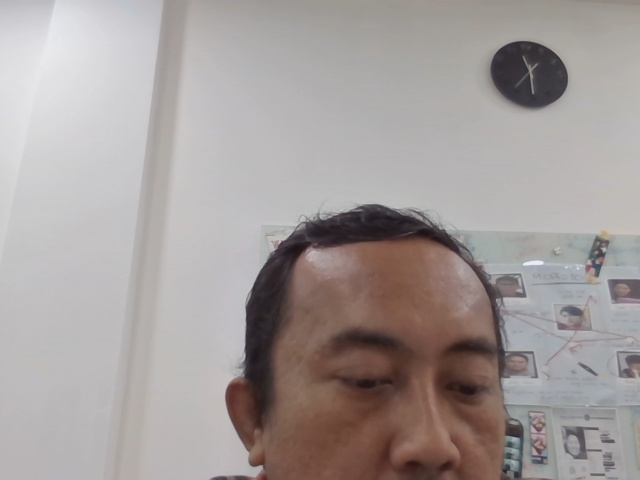
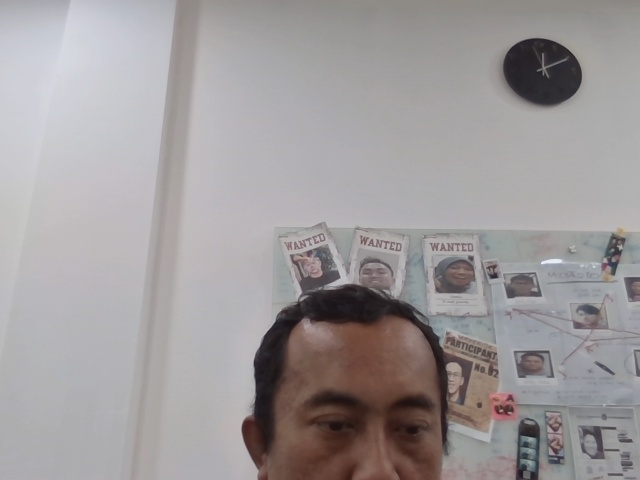
add map

diff --git a/src/pages/index.tsx b/src/pages/index.tsx
@@ -9,6 +9,7 @@ import {
 export default function Home() {
   const [result, setResult] = useState<string>("");
   const [history, setHistory] = useState<any[]>([]);
+  const [activeTab, setActiveTab] = useState<{ [key: number]: string }>({});
   const videoRef = useRef<HTMLVideoElement | null>(null);
   const canvasRef = useRef<HTMLCanvasElement | null>(null);
   const [streaming, setStreaming] = useState<boolean>(false);
@@ -33,8 +34,15 @@ export default function Home() {
               new Date(b.timestamp).getTime() - new Date(a.timestamp).getTime()
           );
           setHistory(parsed);
+          // Initialize active tab state for each history item
+          const initialActiveTab: { [key: number]: string } = {};
+          parsed.forEach((_: any, index: number) => {
+            initialActiveTab[index] = "Data"; // Default to 'Data' tab
+          });
+          setActiveTab(initialActiveTab);
         } catch {
           setHistory([]);
+          setActiveTab({});
         }
       }
     }
@@ -47,6 +55,13 @@ export default function Home() {
     );
     setHistory(sorted);
     localStorage.setItem("scanHistory", JSON.stringify(sorted));
+
+    // Update active tab state when history changes
+    const initialActiveTab: { [key: number]: string } = {};
+    sorted.forEach((_: any, index: number) => {
+      initialActiveTab[index] = activeTab[index] || "Data"; // Retain previous tab or default to 'Data'
+    });
+    setActiveTab(initialActiveTab);
   };
 
   useEffect(() => {
@@ -127,11 +142,14 @@ export default function Home() {
             const inferenceResult = response.data.result;
             setResult(JSON.stringify(inferenceResult, null, 2));
 
+            const imageUrl = canvas.toDataURL("image/jpeg"); // Get image data URL
+
             const newEntry = {
               result: inferenceResult,
               latitude: null,
               longitude: null,
               timestamp: new Date().toISOString(),
+              image: imageUrl, // Store image data URL
             };
 
             const newHistory = [newEntry, ...history]; // Add new entry to the beginning
@@ -167,11 +185,14 @@ export default function Home() {
                 const inferenceResult = response.data.result;
                 setResult(JSON.stringify(inferenceResult, null, 2));
 
+                const imageUrl = canvas.toDataURL("image/jpeg"); // Get image data URL
+
                 const newEntry = {
                   result: inferenceResult,
                   latitude,
                   longitude,
                   timestamp: new Date().toISOString(),
+                  image: imageUrl, // Store image data URL
                 };
 
                 const newHistory = [newEntry, ...history]; // Add new entry to the beginning
@@ -206,6 +227,7 @@ export default function Home() {
   const clearHistory = () => {
     setHistory([]);
     localStorage.removeItem("scanHistory");
+    setActiveTab({}); // Clear active tab state
   };
 
   const increaseZoom = () => {
@@ -214,6 +236,10 @@ export default function Home() {
 
   const decreaseZoom = () => {
     setZoomLevel((prev) => Math.max(prev - 0.1, 1));
+  };
+
+  const handleTabChange = (index: number, tabName: string) => {
+    setActiveTab((prev) => ({ ...prev, [index]: tabName }));
   };
 
   return (
@@ -414,6 +440,32 @@ export default function Home() {
           user-select: none;
           z-index: 20;
         }
+        /* Tab Styles */
+        .tabList {
+          list-style: none;
+          padding: 0;
+          margin: 0 0 10px 0;
+          display: flex;
+          border-bottom: 1px solid #ddd;
+        }
+        .tabItem {
+          padding: 8px 16px;
+          cursor: pointer;
+          border: 1px solid #ddd;
+          border-bottom: none;
+          border-radius: 6px 6px 0 0;
+          background-color: #f0f0f0;
+          margin-right: 4px;
+        }
+        .tabItem.active {
+          background-color: #fff;
+          font-weight: bold;
+        }
+        .tabContent {
+          padding: 16px;
+          border: 1px solid #ddd;
+          border-radius: 0 0 6px 6px;
+        }
       `}</style>
 
       <div className="container" role="main">
@@ -421,7 +473,7 @@ export default function Home() {
 
         <div className="videoContainer" aria-label="Camera preview area">
           <video
-            ref={videoRef}
+		              ref={videoRef}
             className="video"
             style={{
               filter: loading ? "blur(6px)" : "none",
@@ -471,7 +523,7 @@ export default function Home() {
         <section className="resultContainer" aria-live="polite" aria-atomic="true">
           {result ? (
             typeof result === "string" && result.trim().startsWith("[") ? (
-			              <div>
+              <div>
                 <h2>Scan Result</h2>
                 <ul className="resultList">
                   {JSON.parse(result).map((item: any, index: number) => (
@@ -503,73 +555,122 @@ export default function Home() {
           <h2>Scan History</h2>
           {history.length > 0 ? (
             <ul className="historyList" style={{ paddingLeft: 0 }}>
-              {history.map((item: any, index: number) => (
-                <li
-                  key={index}
-                  className="historyItem"
-                  style={{ marginBottom: "32px" }}
-                >
-                  <h3>
-                    Scan {index + 1} -{" "}
-                    {new Date(item.timestamp).toLocaleString()}
-                  </h3>
-                  <ul className="resultList">
-                    {Array.isArray(item.result) ? (
-                      item.result.map((resultItem: any, resultIndex: number) => (
-                        <li key={resultIndex} className="resultItem">
-                          {resultItem.image && (
-                            <img
-                              src={resultItem.image}
-                              alt={resultItem.label}
-                              className="resultItemImage"
-                              loading="lazy"
-                            />
-                          )}
-                          <span>
-                            {resultItem.label}: {(resultItem.score * 100).toFixed(2)}%
-                          </span>
-                        </li>
-                      ))
-                    ) : (
-                      <li>Invalid scan data</li>
-                    )}
-                  </ul>
-                  {typeof item.latitude === "number" &&
-                    typeof item.longitude === "number" &&
-                    mapApiKey &&
-                    isLoaded && (
-                      <div
-                        style={{
-                          marginTop: 12,
-                          height: 150,
-                          borderRadius: 12,
-                          overflow: "hidden",
-                        }}
-                      >
-                        <GoogleMap
-                          mapContainerStyle={{ width: "100%", height: "100%" }}
-                          center={{ lat: item.latitude, lng: item.longitude }}
-                          zoom={14}
-                          options={{ disableDefaultUI: true }}
+              {history.map((item: any, index: number) => {
+                const active = activeTab[index] || "Data";
+
+                return (
+                  <li
+                    key={index}
+                    className="historyItem"
+                    style={{ marginBottom: "32px" }}
+                  >
+                    <h3>
+                      Scan {index + 1} -{" "}
+                      {new Date(item.timestamp).toLocaleString()}
+                    </h3>
+                    <ul className="tabList" role="tablist">
+                      {["Data", "Location", "Image"].map((tab) => (
+                        <li
+                          key={tab}
+                          role="tab"
+                          aria-selected={active === tab}
+                          tabIndex={0}
+                          className={`tabItem ${active === tab ? "active" : ""}`}
+                          onClick={() =>
+                            setActiveTab((prev) => ({
+                              ...prev,
+                              [index]: tab,
+                            }))
+                          }
+                          onKeyDown={(e) => {
+                            if (e.key === "Enter" || e.key === " ") {
+                              setActiveTab((prev) => ({
+                                ...prev,
+                                [index]: tab,
+                              }));
+                            }
+                          }}
                         >
-                          <Marker
-                            position={{ lat: item.latitude, lng: item.longitude }}
-                          />
-                        </GoogleMap>
-                      </div>
-                    )}
-                  {loadError && (
-                    <div style={{ color: "red", marginTop: 8 }}>
-                      Error loading Google Maps
+                          {tab}
+                        </li>
+                      ))}
+                    </ul>
+                    <div className="tabContent" role="tabpanel">
+                      {active === "Data" && (
+                        <ul className="resultList">
+                          {Array.isArray(item.result) ? (
+                            item.result.map(
+                              (resultItem: any, resultIndex: number) => (
+                                <li key={resultIndex} className="resultItem">
+                                  {resultItem.image && (
+                                    <img
+                                      src={resultItem.image}
+                                      alt={resultItem.label}
+                                      className="resultItemImage"
+                                      loading="lazy"
+                                    />
+                                  )}
+                                  <span>
+                                    {resultItem.label}:{" "}
+                                    {(resultItem.score * 100).toFixed(2)}%
+                                  </span>
+                                </li>
+                              )
+                            )
+                          ) : (
+                            <li>Invalid scan data</li>
+                          )}
+                        </ul>
+                      )}
+                      {active === "Location" && (
+                        <>
+                          {typeof item.latitude === "number" &&
+                          typeof item.longitude === "number" &&
+                          mapApiKey &&
+                          isLoaded ? (
+                            <div
+                              style={{
+                                height: 150,
+                                borderRadius: 12,
+                                overflow: "hidden",
+                              }}
+                            >
+                              <GoogleMap
+                                mapContainerStyle={{
+                                  width: "100%",
+                                  height: "100%",
+                                }}
+                                center={{ lat: item.latitude, lng: item.longitude }}
+                                zoom={14}
+                                options={{ disableDefaultUI: true }}
+                              >
+                                <Marker
+                                  position={{ lat: item.latitude, lng: item.longitude }}
+                                />
+                              </GoogleMap>
+                            </div>
+                          ) : (
+                            <p>Location data or Google Maps API not available</p>
+                          )}
+                        </>
+                      )}
+                      {active === "Image" && (
+                        <>
+                          {item.image ? (
+                            <img
+                              src={item.image}
+                              alt={`Scan ${index + 1} Image`}
+                              style={{ maxWidth: "100%", borderRadius: 12 }}
+                            />
+                          ) : (
+                            <p>No image available</p>
+                          )}
+                        </>
+                      )}
                     </div>
-                  )}
-                  {!mapApiKey && (
-                    <div style={{ color: "red", marginTop: 8 }}>
-                      Google Maps API key is missing.
-                    </div>
-                  )}
-                </li>
-              ))}
+                  </li>
+                );
+              })}
             </ul>
           ) : (
             <p>No scan history available.</p>
@@ -579,3 +680,4 @@ export default function Home() {
     </>
   );
 }
+
